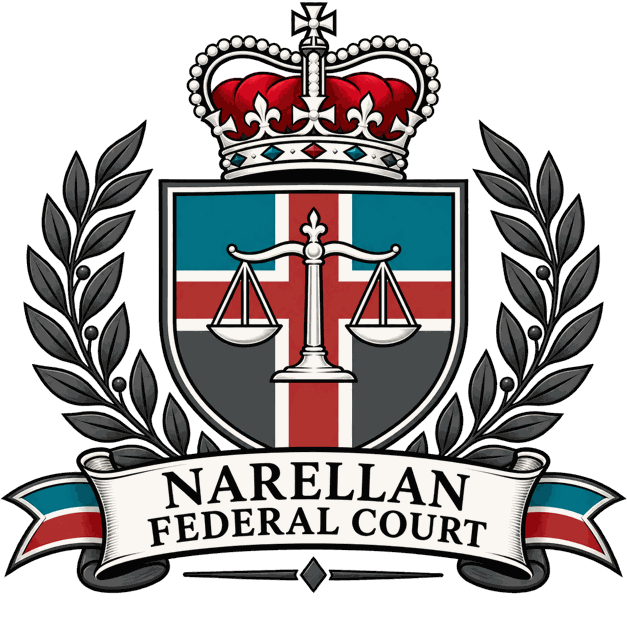
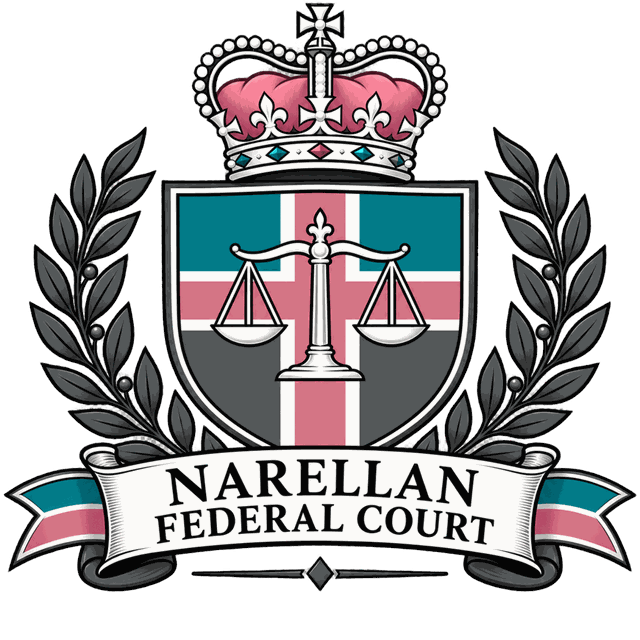
Add files via upload

Changed region(s): [[0.0, 0.0, 1.0, 0.9375]]

diff --git a/clerk.html b/clerk.html
@@ -11,7 +11,7 @@
 :root {
   --bg: #f2f6f7; --surface: #ffffff; --field: #f8fbfc; --ink: #1d2529; --muted: #55636a;
   --line: #d5dee2; --line-strong: #aebbc1; --teal: #176b80; --on-teal: #ffffff;
-  --rib-teal: #1b7a8f; --rib-red: #b3302f; --rib-slate: #4a4f55; --err: #a82b2b; --ok: #1b6637;
+  --rib-teal: #1b7a8f; --rib-red: #D08499; --rib-slate: #4a4f55; --err: #a82b2b; --ok: #1b6637;
   --st-open-fg: #85560a;   --st-open-bg: #fbefd2;
   --st-done-fg: #1b6637;   --st-done-bg: #dcf0e3;
   --st-dismiss-fg: #4b585f; --st-dismiss-bg: #e3e9ec;

diff --git a/index.html b/index.html
@@ -27,7 +27,7 @@
   --teal: #176b80;
   --on-teal: #ffffff;
   --rib-teal: #1b7a8f;
-  --rib-red: #b3302f;
+  --rib-red: #D08499;
   --rib-slate: #4a4f55;
   --paper: #f8f5ea;
   --paper-line: #d9d1ba;
